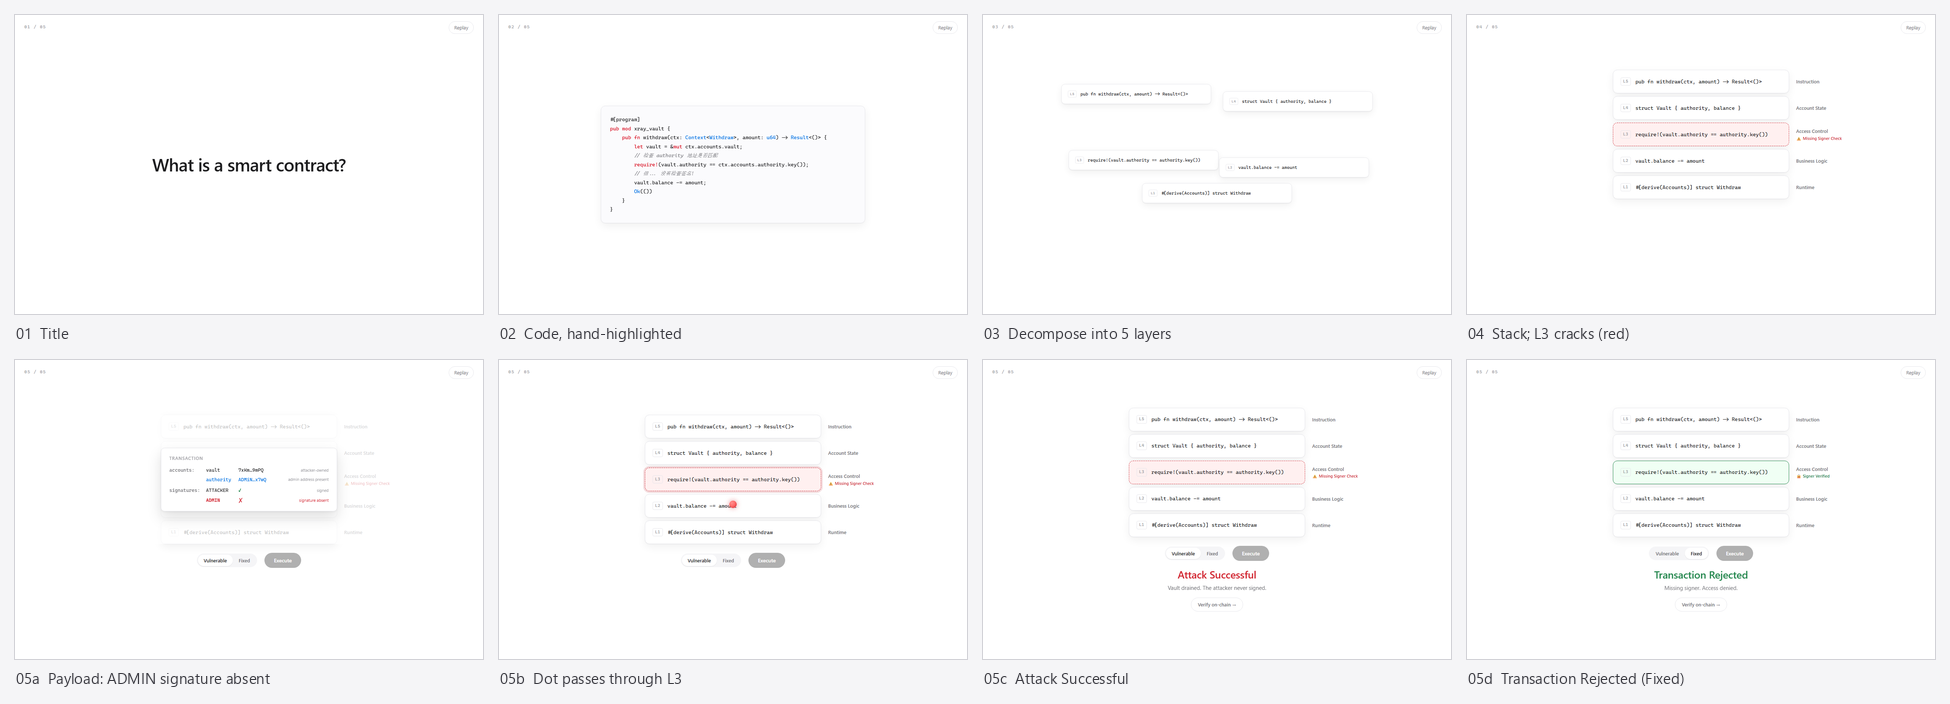
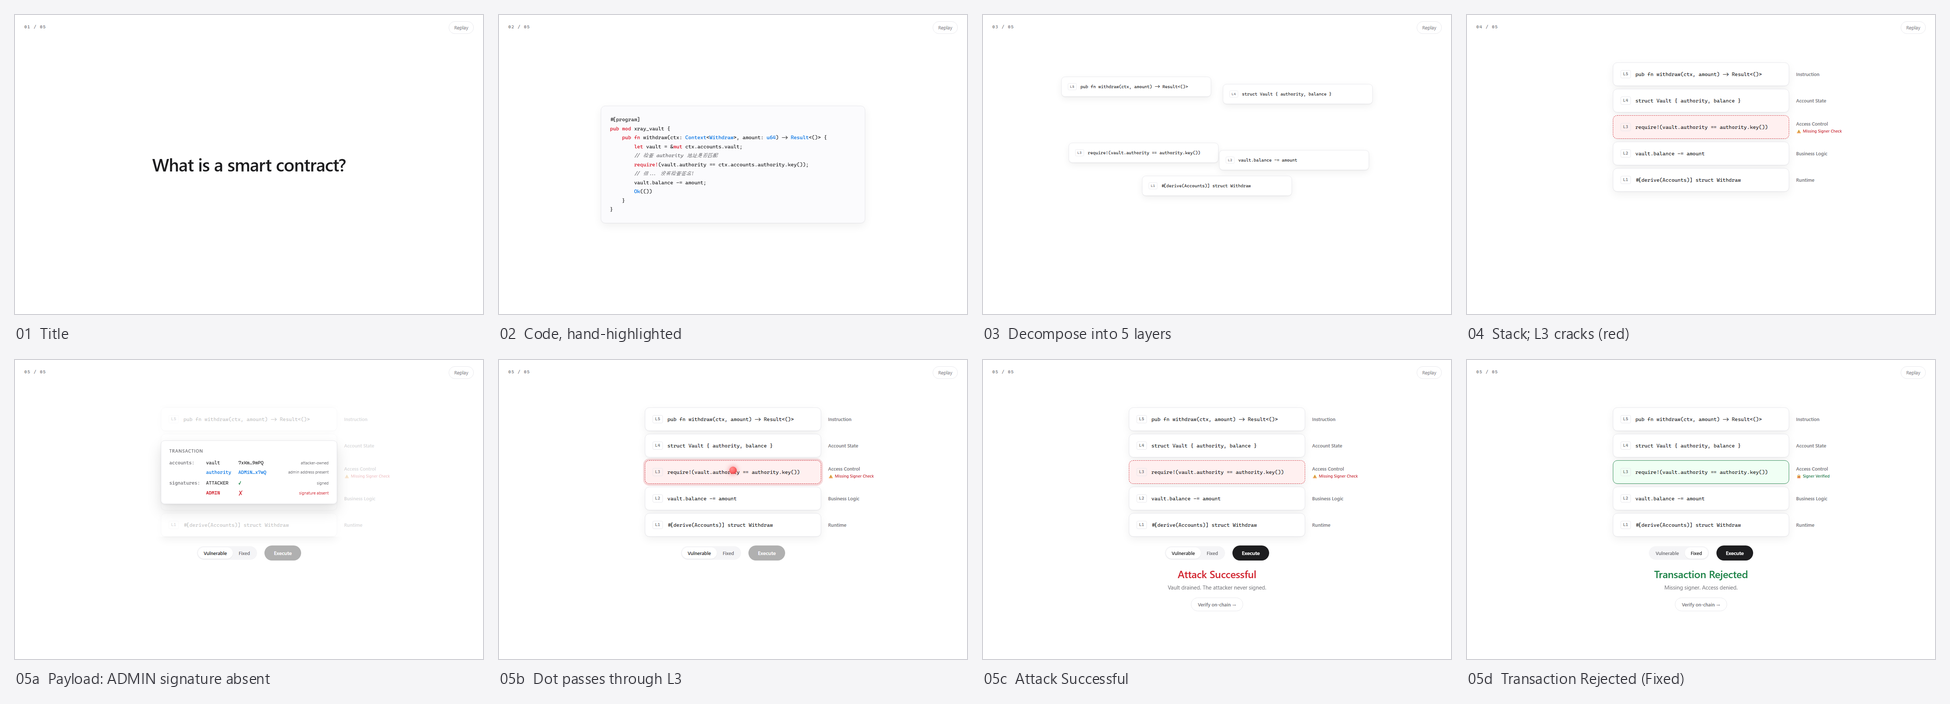
docs: checkpoint 2 review outcome, refreshed contact sheet

diff --git a/docs/superpowers/plans/2026-10-10-solana-xray-frontend.md b/docs/superpowers/plans/2026-10-10-solana-xray-frontend.md
@@ -206,19 +206,40 @@ feat(config): verification placeholders with tests                <- RED 已见
 
 ## 3. 门禁清单
 
-### CHECKPOINT 1
-- [ ] `npm test` 全绿（geometry + steps，且都见过 RED）
-- [ ] `npm run build` 无 TS 错误
-- [ ] 两段式评审通过（规格符合度 / 代码质量）
-- [ ] 铁律自查：无 CSS 手写像素、无 DOM 拆分
+### CHECKPOINT 1 — ✅ PASS
+- [x] `npm test` 全绿（geometry + steps，且都见过 RED）
+- [x] `npm run build` 无 TS 错误
+- [x] 两段式评审通过（子代理独立复核，押 SHA `de7f590`）
+- [x] 铁律自查：无 CSS 手写像素、无 DOM 拆分
 
-### CHECKPOINT 2
-- [ ] 完整流程 1→6 无刷新跑通两遍
-- [ ] 交易卡片 ✗（ADMIN 签名缺席）一眼可见
-- [ ] 全站 easing 均为 `--ease-apple`，无 console 报错
-- [ ] `npm test` 全绿
-- [ ] 两段式评审通过
-- [ ] 截图或本地 URL 可交付给你做人眼验收
+评审给出 0 Critical、2 Major、7 Minor。Major 两条均为**文档/契约债**而非代码缺陷，已全部处理：
+- **M1（拦停坐标矛盾）** → 见 GAP-5 的 `IMPACT_Y` 行；评审独立复核确认"计划公式 200 落在 L3 区间 [144,208] 内 56px，视觉上等于攻击穿过了安全层"，并实测实现版本圆点峰值恰好 136.0、从不触及 144。
+- **M2（新增 API 未回写文档）** → 本文件新增 GAP-5 小节补齐签名与语义。
+- Minor 中 `stackHeight(0)` 返回 -8、`blockedY` 的字面量 8、缺 `engines` 等已一并修掉并补测试。
+
+### CHECKPOINT 2 — ✅ PASS（首轮 FAIL，已修复后重验）
+- [x] 完整流程 1→6 无刷新跑通两遍（harness 第二遍与第一遍逐字节相同）
+- [x] 交易卡片 ✗（ADMIN 签名缺席）一眼可见，且带 `aria-label="signature absent"`
+- [x] 全站 easing 均为 `--ease-apple`（全库仅 1 处 `cubic-bezier`），console 干净
+- [x] `npm test` 全绿（48 个）
+- [x] 两段式评审通过（子代理押 SHA `851d563`，用 CDP 实测 + 变异测试）
+- [x] 截图（`docs/screenshots/contact-sheet.png`）可交付给你做人眼验收
+
+**首轮评审结论为 `FAIL (2 critical)`，两条都是"验证层"而非产品缺陷**，已全部修复：
+
+| # | 问题 | 修复 |
+|---|---|---|
+| C1 | 控制台错误门禁**永远不会失败**：`window.__xrayErrors` 全库无人赋值，`connect()` 又丢弃所有事件消息。评审同时实测到真实报错（favicon 404）| harness 改为在 `connect()` 内收集 `Runtime.consoleAPICalled` / `Runtime.exceptionThrown` / `Log.entryAdded`；`index.html` 加内联空图标消除 404。**已用"故意 `console.error` → 门禁 FAIL → 撤回"证明该门禁确实会失败** |
+| C2 | `'结束时淡出'` 是假绿：`toContain('opacity:0')` 被 0% 帧满足 | 改为解析关键帧、断言**最后一帧**；并新增 `opacityAt()`（含 CSS 插值语义）断言两次撞击时仍为 1 |
+| M1 | 修复版两条弹跳是**幽灵**：opacity 从 6% 一路插值到 100%，实测第一次撞击时只有 0.207 | 在 88% 处重申 `opacity:1`，只在最后一次弹跳后淡出。**已用变异测试证明新断言会失败（算出 0.5106）** |
+| M2 | `prefers-reduced-motion` 下第 1、2 步**整屏空白**（动画瞬间结束 + `fill-mode:both` 钉在 opacity:0 的末帧）| 在 reduced-motion 块内单独覆写这三个选择器为 `animation:none; opacity:1`（不能用一刀切 `animation:none`，否则 `.code-card__line` 基线 opacity:0 永远不可见）。**已用 `Emulation.setEmulatedMedia` 实测两步 opacity 均为 1** |
+| M3 | harness 用绝对 sleep，违反本项目调试协议 §I，并制造了 2 次假失败 | 改为**全部条件等待**（`wait` 谓词 + `at` 仅作超时上限），每次截图记录实测到的 step/mode |
+| M4 | 6 处装饰性手写像素位移（±10/-6/4/8/-1px）与铁律 2 字面冲突 | 全部提为 `--nudge-*` / `--scale-enter` 令牌 |
+| M5 | Execute 在 `done` 后永久禁用，只能靠 Replay 逃出 | 改为 `attackState === 'showing-tx' \|\| 'running'` 时才禁用 |
+| M6 | 铁律 2 **未被机器校验**（评审用变异测试证明：硬编码但数值正确可通过）| 新增 `no-hardcoded-pixels.test.ts`：读取 CSS 与 `keyframes.ts` 源码，transform 内出现 px 字面量即失败。该守卫当场抓出 `box-shadow` 的 `6px` 扩散半径 → 提为 `--ring-spread` |
+| m1-m9 | 死类 `.attacking`/`.attack-dot--*`、死令牌 `--duration-slow`、死类 `.placeholder`、多余 export、`TOTAL_STEPS` 重复、footer 预留不足 19px、`{'\n'}` 冗余、`aria-controls` 缺失、无 favicon、对比度 | 逐条修掉；`--color-text-tertiary`(2.57:1) 只留给装饰性文字并在令牌处写明，`--color-syntax-comment` 提到 #6E6E73 (5.1:1) |
+
+harness 自身的进程问题也修了：端口按 pid 偏移（避免两个 harness 互相劫持对方浏览器）、等待进程树退出后再删 profile（原先 8 个临时目录泄漏）、CDP 每条命令加超时。
 
 ---
 

diff --git a/README.md b/README.md
@@ -60,22 +60,28 @@ frontend/src/
   styles/             global.css (tokens) · app.css · animations.css
 ```
 
-Two rules hold this together, and both are enforced by tests rather than by
-discipline:
+Two rules hold this together. Both are checked mechanically, at the level that
+can actually catch a violation:
 
 - **No animation coordinate is written in CSS.** Offsets are computed in
   `geometry.ts` and arrive as custom properties; the attack keyframes are
-  generated at runtime. `keyframes.test.ts` asserts that every `translateY`
-  value produced appears in geometry's output set.
+  generated at runtime. Three checks cover this and they are not equivalent:
+  `keyframes.test.ts` validates the values the generator *produces*,
+  `no-hardcoded-pixels.test.ts` reads the stylesheets **and the generator's own
+  source** and fails on a pixel literal inside a `transform`, and the harness
+  below measures the rendered result in a real browser. A value-only check would
+  pass for a hard-coded-but-correct implementation, which is why the
+  source-level one exists.
 - **Steps 3, 4 and 5 share one set of DOM nodes.** They differ only by class
   name and transform inputs, so the cards travel between layouts instead of
-  being re-created. Splitting them into separate components would break the
-  animation.
+  being re-created. This cannot be proved by reading the source, so the harness
+  proves it empirically: it tags the five live nodes and fails if the tags do
+  not survive a layout change.
 
 ## Verification
 
 `npm test` covers geometry, the step machine, the keyframe generator, the
-tokenizer and the verification URLs.
+tokenizer, the verification URLs, and the no-hand-written-coordinates guard.
 
 For the visuals there is a real-time screenshot harness:
 
@@ -84,11 +90,17 @@ npm run dev -- --port 5199 &
 node tools/shoot.mjs http://localhost:5199/ .shots-real   # needs Node >= 22
 ```
 
-It drives headless Chrome over the DevTools Protocol, waits in real time and
-clicks real elements, then fails if any selector is missing or the page logged a
-console error. Chrome's `--virtual-time-budget` is deliberately *not* used:
-it fast-forwards `setTimeout` while CSS animations keep running on the real
-clock, so the captured frame does not match the state the app believes it is in.
+It drives headless Chrome over the DevTools Protocol and clicks real elements.
+Every step **waits on a predicate against the live page** rather than sleeping
+for a guessed duration, and each capture logs the step/mode it actually observed
+— guessed sleeps produced both false failures and mislabelled frames. It fails
+on a missing selector, a wrong result string, layer cards that were remounted, or
+any console error (`Runtime.consoleAPICalled`, `Runtime.exceptionThrown`,
+`Log.entryAdded`, collected from page load).
+
+Chrome's `--virtual-time-budget` is deliberately *not* used: it fast-forwards
+`setTimeout` while CSS animations keep running on the real clock, so the captured
+frame does not match the state the app believes it is in.
 
 ## Status
 
